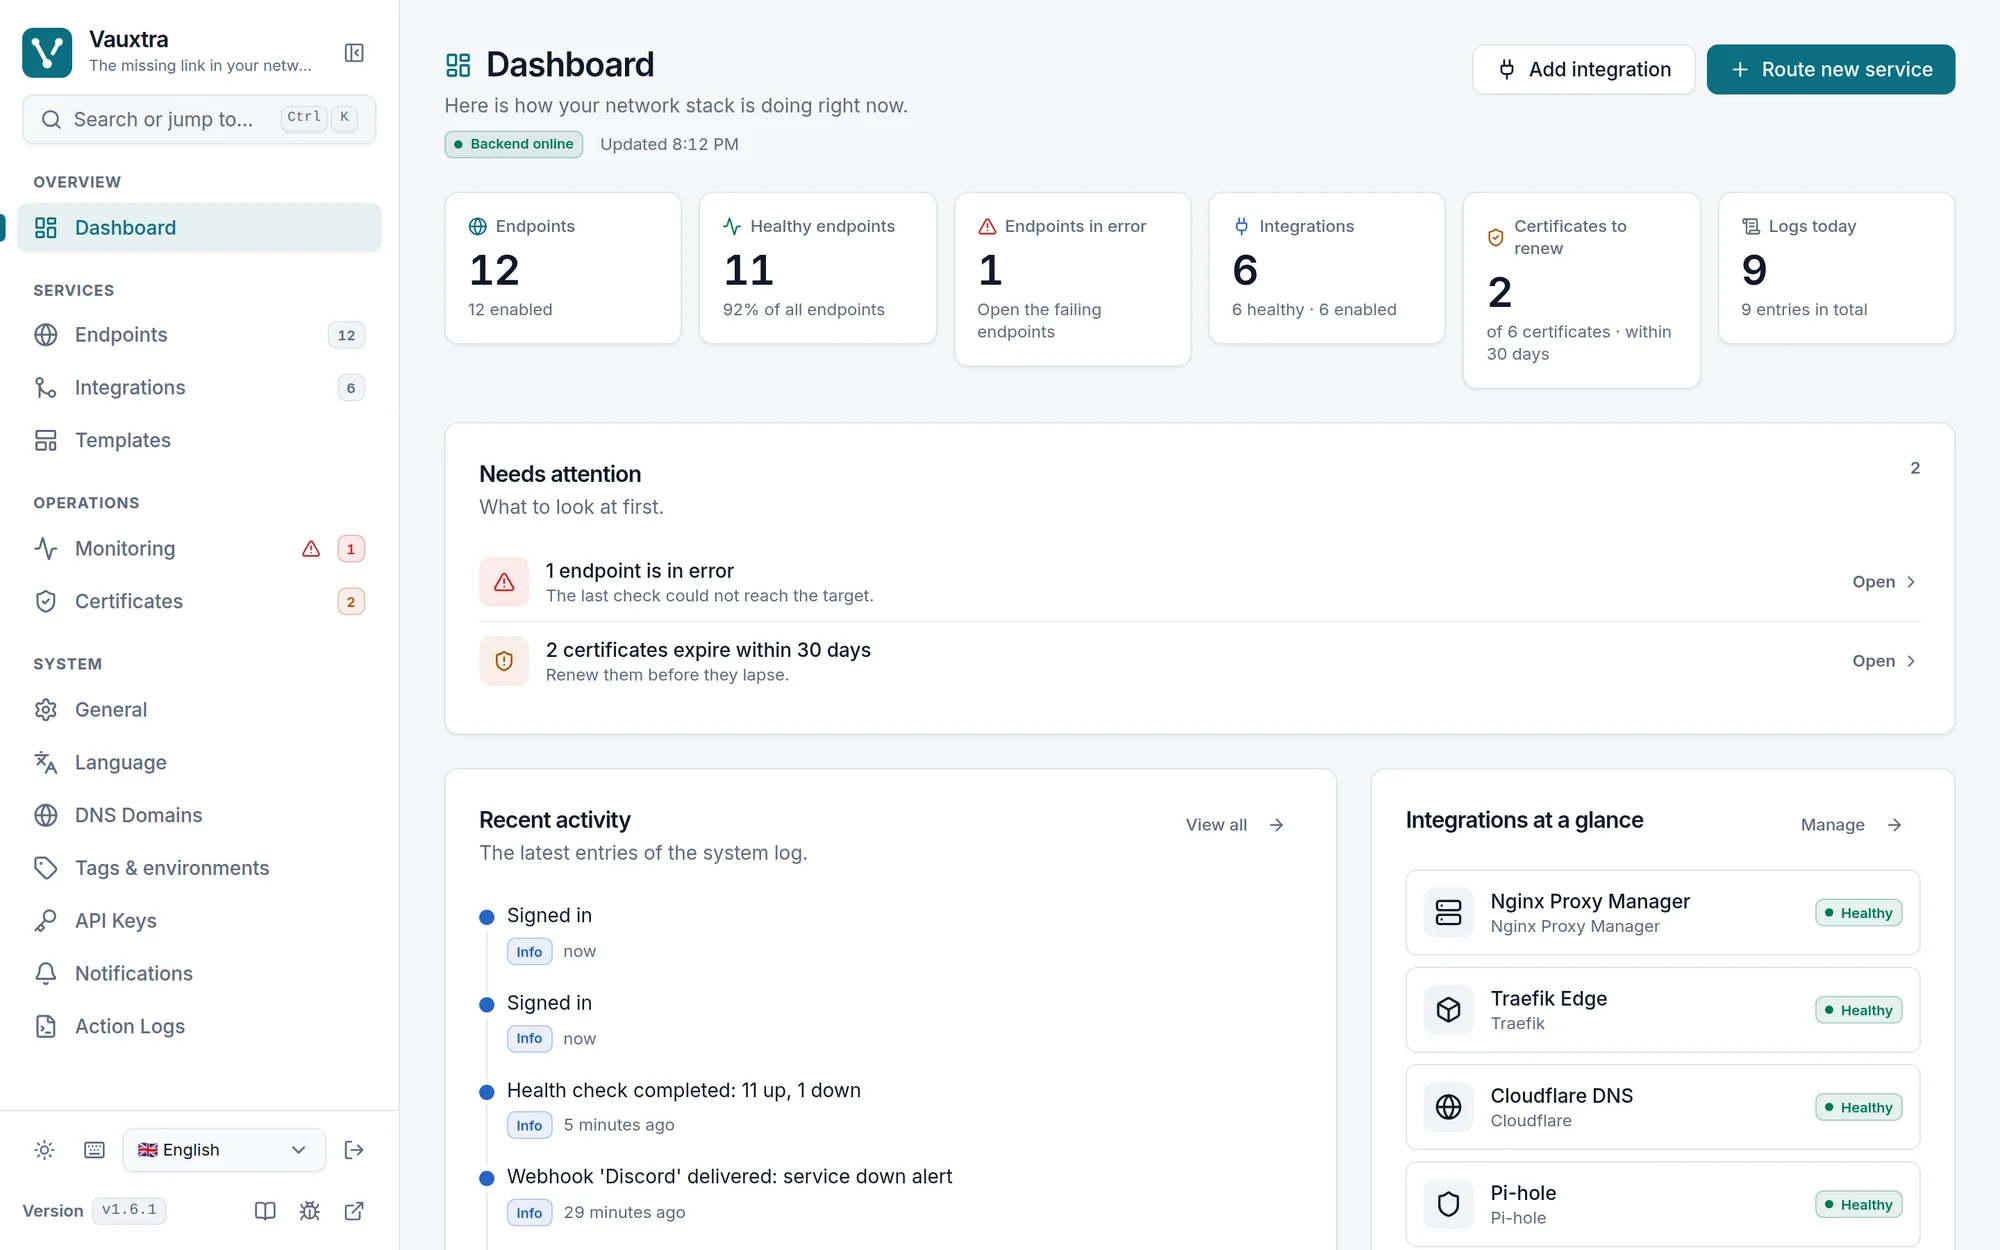
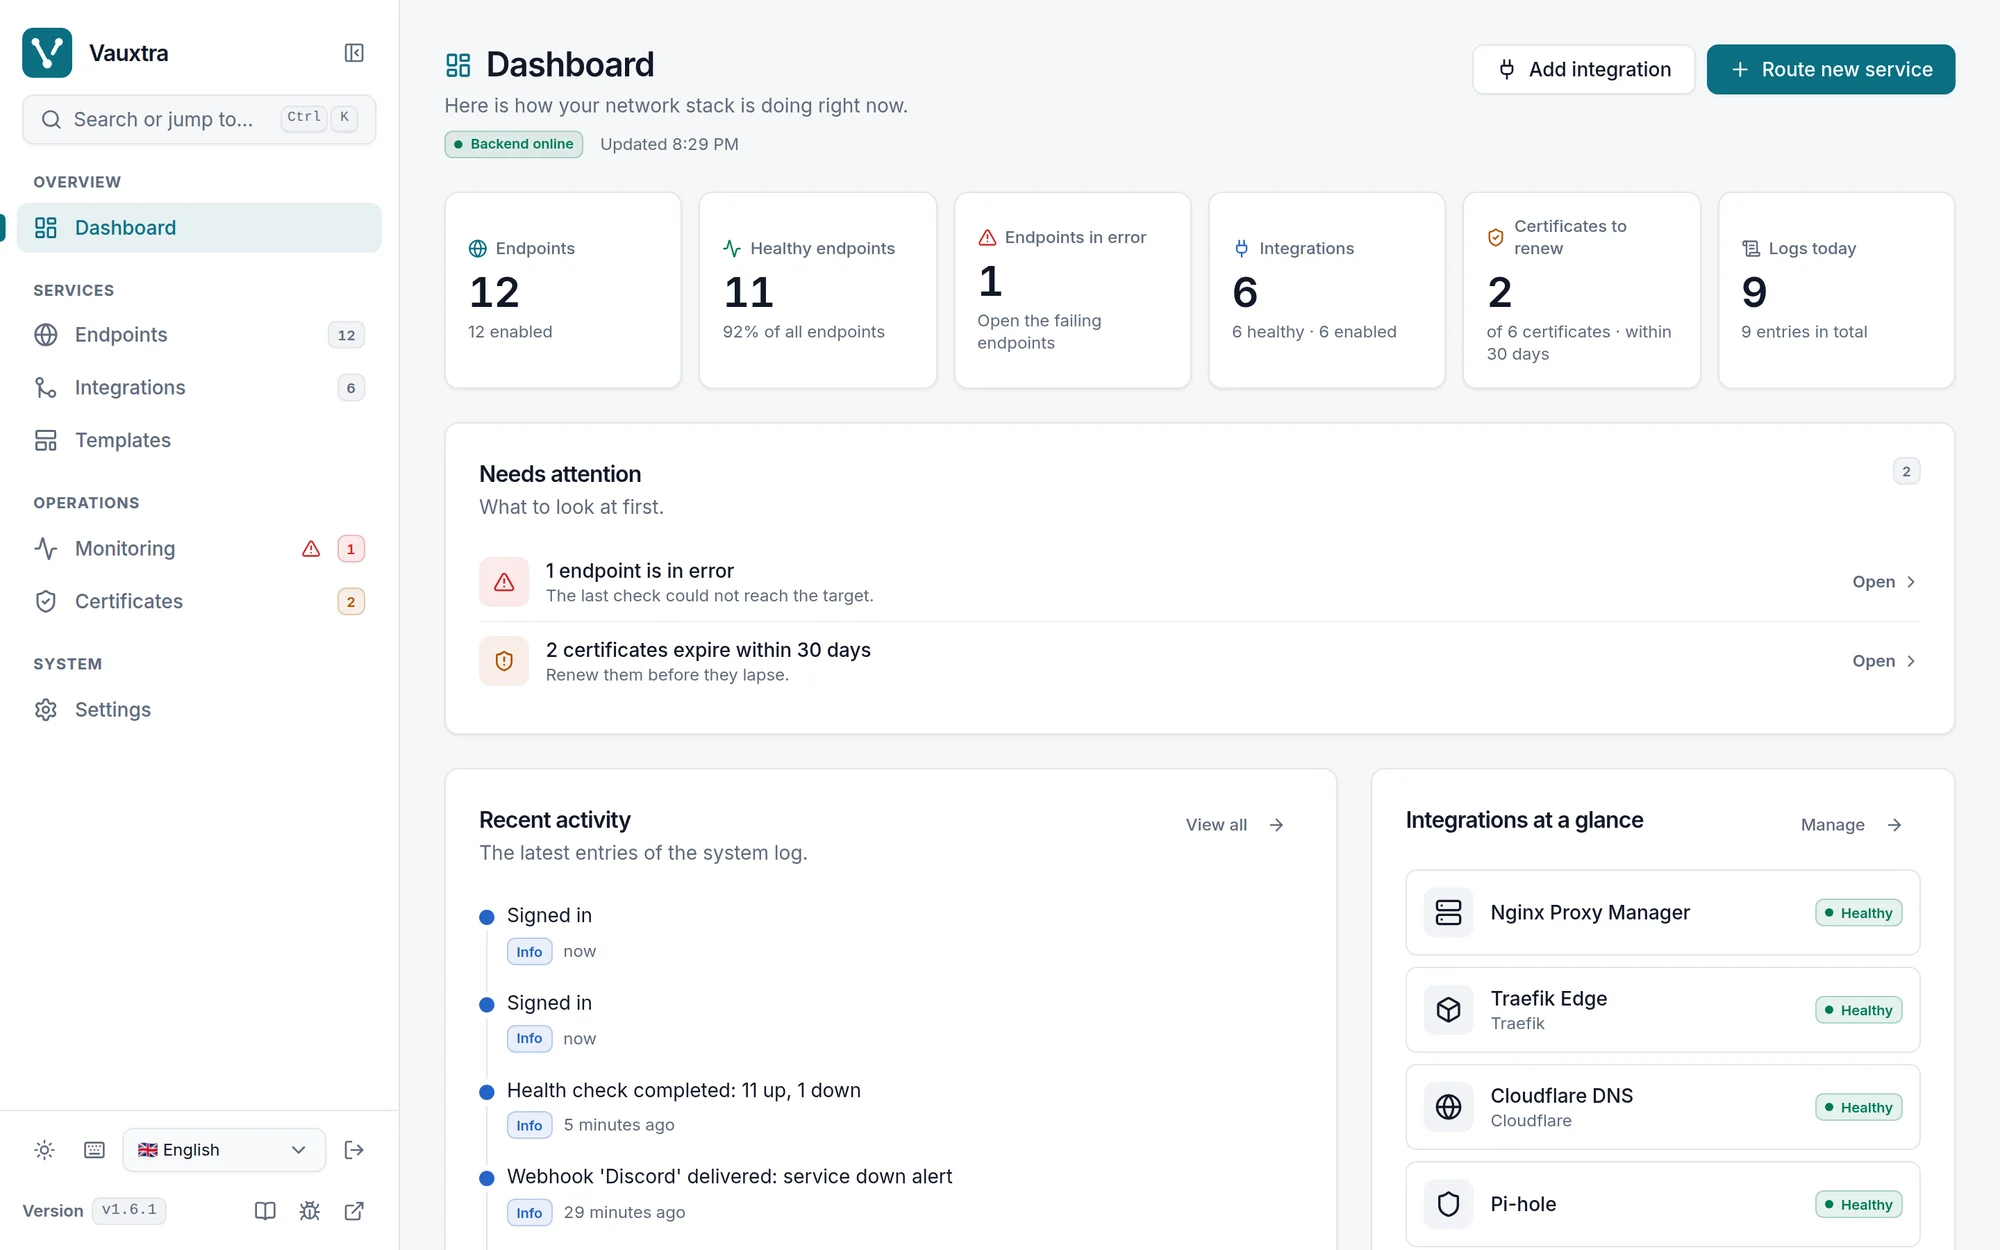
fix(ui) : menu Settings en double et passe de finition graphique
- Barre latérale : la section « System » répétait 7 des 9 onglets que la
  page Settings affiche déjà dans son propre menu. Elle ne garde qu'une
  entrée « Settings » ; le bouton « Back » de la page, redondant avec la
  barre, disparaît aussi.
- Couleurs des tags et environnements : la base stocke des mots-clés CSS
  (blue, purple, yellow…), peints tels quels — bleu pur illisible sur le
  thème sombre, jaune sur le clair. Chaque nom passe par un jeton
  --vx-label-* réglé par thème (labelColor, avec tests) ; une valeur
  inconnue, un hex importé par exemple, reste inchangée.
- Endpoints sur mobile : le tableau ne tenait pas et défilait de côté ;
  sous md la vue cartes s'impose et le sélecteur de vue est masqué
  (nouveau hook useMediaQuery).
- Finitions : slogan tronqué retiré sous le logo de la barre latérale,
  tuiles KPI cliquables à hauteur égale, compteur « Needs attention » en
  badge, en-tête de la carte Tunnel connectors qui ne s'écrase plus dans
  sa colonne étroite, type d'intégration plus répété quand il est déjà le
  nom (et plus en majuscules).
- Captures du README refaites.

diff --git a/frontend/src/components/layout/Sidebar.tsx b/frontend/src/components/layout/Sidebar.tsx
@@ -4,16 +4,12 @@ import { useMutation, useQuery, useQueryClient } from '@tanstack/react-query';
 import toast from 'react-hot-toast';
 import {
   Activity,
-  Bell,
   BookOpen,
   Bug,
   ExternalLink,
-  FileTerminal,
   GitMerge,
   Globe,
-  Key,
   Keyboard,
-  Languages,
   LayoutDashboard,
   LayoutTemplate,
   LogOut,
@@ -25,7 +21,6 @@ import {
   Settings,
   ShieldCheck,
   Sun,
-  Tag,
   TriangleAlert,
   X,
 } from 'lucide-react';
@@ -166,13 +161,7 @@ export function Sidebar({
     [certExpiryKnown, certExpiry?.certificates, certExpiry?.warn_threshold_days, expiringSoonCount],
   );
 
-  const settingsTab = new URLSearchParams(location.search).get('tab') || 'general';
-
   const isItemActive = (item: NavItem): boolean => {
-    if (item.href.startsWith('/settings?tab=')) {
-      const tab = item.href.split('tab=')[1] || 'general';
-      return location.pathname === '/settings' && settingsTab === tab;
-    }
     if (item.href === '/') return location.pathname === '/';
     return location.pathname === item.href || location.pathname.startsWith(`${item.href}/`);
   };
@@ -214,13 +203,7 @@ export function Sidebar({
     {
       title: t('nav.group.system'),
       items: [
-        { icon: <Settings />, label: t('settings.tab.general'), href: '/settings?tab=general' },
-        { icon: <Languages />, label: t('settings.language.title'), href: '/settings?tab=language' },
-        { icon: <Globe />, label: t('settings.tab.dns'), href: '/settings?tab=dns' },
-        { icon: <Tag />, label: t('settings.tab.taxonomy'), href: '/settings?tab=taxonomy' },
-        { icon: <Key />, label: t('settings.tab.apikeys'), href: '/settings?tab=apikeys' },
-        { icon: <Bell />, label: t('settings.tab.webhooks'), href: '/settings?tab=webhooks' },
-        { icon: <FileTerminal />, label: t('settings.tab.logs'), href: '/settings?tab=logs' },
+        { icon: <Settings />, label: t('nav.settings'), href: '/settings' },
       ],
     },
   ];
@@ -356,10 +339,7 @@ export function Sidebar({
       <div className="flex items-center justify-between gap-2 px-4 pb-3 pt-5">
         <div className="flex min-w-0 items-center gap-3">
           <BrandMark size="md" />
-          <div className="min-w-0">
-            <p className="text-base font-semibold leading-none tracking-tight text-foreground">Vauxtra</p>
-            <p className="mt-1 truncate text-[11px] leading-snug text-muted-foreground">{t('layout.tagline')}</p>
-          </div>
+          <p className="text-base font-semibold leading-none tracking-tight text-foreground">Vauxtra</p>
         </div>
         {isMobile
           ? onClose && <IconButton label={t('layout.menu.close')} icon={<X />} onClick={onClose} className="h-8 w-8 text-muted-foreground" />

diff --git a/frontend/src/components/features/monitoring/TunnelsCard.tsx b/frontend/src/components/features/monitoring/TunnelsCard.tsx
@@ -70,28 +70,29 @@ export function TunnelsCard({ data, loading, isError, refreshing, onRefresh }: T
 
   return (
     <Card>
-      <CardHeader className="flex flex-row items-start justify-between gap-3">
-        <div className="min-w-0">
-          <CardTitle className="flex items-center gap-2">
-            <Waypoints className="h-4 w-4 text-muted-foreground" aria-hidden />
-            {t('monitoring.tunnels.title')}
+      <CardHeader>
+        <div className="flex items-center justify-between gap-2">
+          <CardTitle className="flex min-w-0 items-center gap-2">
+            <Waypoints className="h-4 w-4 shrink-0 text-muted-foreground" aria-hidden />
+            <span className="truncate">{t('monitoring.tunnels.title')}</span>
           </CardTitle>
-          <p className="mt-1 text-xs text-muted-foreground">{t('monitoring.tunnels.description')}</p>
-        </div>
-        <div className="flex shrink-0 items-center gap-2">
-          {items.length > 0 && (
-            <Badge tone={down.length > 0 ? 'danger' : 'success'} size="sm" dot>
-              {t('monitoring.tunnels.healthy_of', { count: items.length - down.length, total: formatNumber(items.length) })}
-            </Badge>
-          )}
           <IconButton
             label={t('monitoring.tunnels.refresh')}
             icon={<RefreshCw className={cn(refreshing && 'animate-spin')} />}
             variant="ghost"
             size="icon"
             onClick={onRefresh}
+            className="-my-1.5 shrink-0"
           />
         </div>
+        <p className="text-xs text-muted-foreground">{t('monitoring.tunnels.description')}</p>
+        {items.length > 0 && (
+          <div>
+            <Badge tone={down.length > 0 ? 'danger' : 'success'} size="sm" dot>
+              {t('monitoring.tunnels.healthy_of', { count: items.length - down.length, total: formatNumber(items.length) })}
+            </Badge>
+          </div>
+        )}
       </CardHeader>
 
       <CardContent>

diff --git a/frontend/src/components/features/settings/TaxonomyTab.tsx b/frontend/src/components/features/settings/TaxonomyTab.tsx
@@ -7,6 +7,7 @@ import { useT } from '@/i18n';
 import { useFormat } from '@/hooks/useFormat';
 import { cn } from '@/lib/cn';
 import { translateApiError } from '@/lib/errors';
+import { LABEL_COLORS, labelColor } from '@/lib/labels';
 import {
   Badge,
   Button,
@@ -27,7 +28,7 @@ import { SettingsSection } from './SettingsSection';
 import { TaxonomyDeleteBody } from './TaxonomyDeleteBody';
 
 /** CSS colour names the backend stores as-is; the label of each one is translated. */
-const TAG_COLORS = ['blue', 'teal', 'green', 'red', 'orange', 'purple', 'cyan', 'yellow', 'pink', 'lime', 'indigo'] as const;
+const TAG_COLORS = LABEL_COLORS;
 const SEARCH_THRESHOLD = 6;
 
 type Kind = 'tags' | 'env';
@@ -67,10 +68,11 @@ export function TaxonomyTab() {
   );
 }
 
-function swatchStyle(color: string) {
+function swatchStyle(stored: string) {
+  const color = labelColor(stored);
   return {
-    backgroundColor: `color-mix(in srgb, ${color} 15%, transparent)`,
-    borderColor: `color-mix(in srgb, ${color} 40%, transparent)`,
+    backgroundColor: `color-mix(in srgb, ${color} 12%, transparent)`,
+    borderColor: `color-mix(in srgb, ${color} 35%, transparent)`,
     color,
   };
 }
@@ -423,7 +425,7 @@ function TaxonomyEditor({ kind }: { kind: Kind }) {
                 className="inline-flex items-center gap-1.5 rounded-full border py-1 pl-2.5 pr-1 text-xs font-medium"
                 style={swatchStyle(item.color)}
               >
-                <span aria-hidden="true" className="h-2 w-2 rounded-full" style={{ backgroundColor: item.color }} />
+                <span aria-hidden="true" className="h-2 w-2 rounded-full" style={{ backgroundColor: labelColor(item.color) }} />
                 <span className="max-w-48 truncate">{item.name}</span>
                 {held.services.length > 0 && (
                   <span className="rounded-full bg-foreground/10 px-1.5 leading-4 tabular-nums">

diff --git a/frontend/src/pages/Services.tsx b/frontend/src/pages/Services.tsx
@@ -22,6 +22,7 @@ import { toast } from 'react-hot-toast';
 import { api } from '@/api/client';
 import { useT } from '@/i18n';
 import { useFormat } from '@/hooks/useFormat';
+import { useMediaQuery } from '@/hooks/useMediaQuery';
 import { cn } from '@/lib/cn';
 import { translateApiError } from '@/lib/errors';
 import {
@@ -139,7 +140,11 @@ export function Services() {
 
   // --- persisted UI state -------------------------------------------------
   const [search, setSearch] = useLocalStorage('vauxtra.services.search', '');
-  const [viewMode, setViewMode] = useLocalStorage<ViewMode>('vauxtra.services.viewMode', 'list');
+  const [savedViewMode, setViewMode] = useLocalStorage<ViewMode>('vauxtra.services.viewMode', 'list');
+  // The table needs a desktop's width; below `md` it only scrolls sideways, so phones get the
+  // cards whatever was saved, and the toggle that could not change that is hidden.
+  const isNarrow = useMediaQuery('(max-width: 767px)');
+  const viewMode: ViewMode = isNarrow ? 'grid' : savedViewMode;
   const [modeFilter, setModeFilter] = useLocalStorage<ModeFilter>('vauxtra.services.mode', 'all');
 
   // --- URL-driven filters (shared links from the dashboard) ---------------
@@ -965,7 +970,7 @@ export function Services() {
                 {t('services.clear_filters')}
               </Button>
             )}
-            <div className="ml-auto inline-flex items-center gap-1 rounded-xl bg-muted p-1" role="group" aria-label={t('services.view.label')}>
+            <div className="ml-auto hidden items-center gap-1 rounded-xl bg-muted p-1 md:inline-flex" role="group" aria-label={t('services.view.label')}>
               <IconButton
                 label={t('services.view.list')}
                 icon={<LayoutList />}

diff --git a/frontend/src/lib/labels.ts b/frontend/src/lib/labels.ts
@@ -23,9 +23,23 @@ export const labelTone = (half: LabelHalf): Tone => (half === 'tag' ? 'primary' 
 export const labelDotClass = (half: LabelHalf): string =>
   `inline-block h-2 w-2 rounded-full ${half === 'tag' ? 'bg-primary' : 'bg-info'}`;
 
+/** The colour names the Settings picker offers, each backed by a `--vx-label-*` token. */
+export const LABEL_COLORS = ['blue', 'teal', 'green', 'red', 'orange', 'purple', 'cyan', 'yellow', 'pink', 'lime', 'indigo'] as const;
+
+const NAMED = new Set<string>(LABEL_COLORS);
+
+/**
+ * The CSS value for a stored label colour. The picker stores CSS keywords, and painted as-is
+ * those are the raw web colours -- pure `blue` on the dark theme, `yellow` on the light one --
+ * so a known name goes through its theme-tuned token; anything else (a hex from an import or
+ * an older release) passes through untouched.
+ */
+export const labelColor = (color: string): string =>
+  NAMED.has(color.toLowerCase()) ? `rgb(var(--vx-label-${color.toLowerCase()}))` : color;
+
 /**
  * The label's own colour, or nothing at all. A label may have none, and an inline style of
  * `undefined` leaves the dot on its tone class rather than painting it transparent.
  */
 export const labelDotStyle = (color: string | null | undefined) =>
-  color ? { backgroundColor: color } : undefined;
+  color ? { backgroundColor: labelColor(color) } : undefined;

diff --git a/frontend/src/index.css b/frontend/src/index.css
@@ -258,6 +258,20 @@
     --vx-info-fg: 255 255 255;
     --vx-ring: 11 110 130;
 
+    /* Tag and environment colours: the names stored in the database, tuned per theme so
+     * every one of them stays readable (a raw `blue` or `yellow` did not). */
+    --vx-label-blue: 29 78 216;
+    --vx-label-teal: 15 118 110;
+    --vx-label-green: 21 128 61;
+    --vx-label-red: 185 28 28;
+    --vx-label-orange: 194 65 12;
+    --vx-label-purple: 126 34 206;
+    --vx-label-cyan: 14 116 144;
+    --vx-label-yellow: 161 98 7;
+    --vx-label-pink: 190 24 93;
+    --vx-label-lime: 77 124 15;
+    --vx-label-indigo: 67 56 202;
+
     --vx-shadow-card:
       0 1px 2px 0 rgb(15 23 42 / 0.04), 0 1px 3px 0 rgb(15 23 42 / 0.05);
     --vx-shadow-elevated:
@@ -291,6 +305,18 @@
     --vx-info: 110 160 245;
     --vx-info-fg: 10 25 55;
     --vx-ring: 70 160 178;
+
+    --vx-label-blue: 96 165 250;
+    --vx-label-teal: 45 212 191;
+    --vx-label-green: 74 222 128;
+    --vx-label-red: 248 113 113;
+    --vx-label-orange: 251 146 60;
+    --vx-label-purple: 192 132 252;
+    --vx-label-cyan: 34 211 238;
+    --vx-label-yellow: 250 204 21;
+    --vx-label-pink: 244 114 182;
+    --vx-label-lime: 163 230 53;
+    --vx-label-indigo: 129 140 248;
 
     --vx-shadow-card:
       0 1px 2px 0 rgb(0 0 0 / 0.35), 0 1px 3px 0 rgb(0 0 0 / 0.3);

diff --git a/frontend/src/components/features/dashboard/NeedsAttention.tsx b/frontend/src/components/features/dashboard/NeedsAttention.tsx
@@ -2,7 +2,7 @@ import type { ReactNode } from 'react';
 import { Link } from 'react-router-dom';
 import { ChevronRight, CloudOff, Sparkles } from 'lucide-react';
 import { useT } from '@/i18n';
-import { Card, InlineAlert, SectionHeading, SkeletonRow, cn, toneClasses, type Tone } from '@/components/ui';
+import { Badge, Card, InlineAlert, SectionHeading, SkeletonRow, cn, toneClasses, type Tone } from '@/components/ui';
 
 export interface AttentionItem {
   id: string;
@@ -65,7 +65,7 @@ export function NeedsAttention({ items, loading, incomplete = false }: NeedsAtte
       {partial}
       <Card className="p-5 sm:p-6 animate-in fade-in">
         <SectionHeading title={t('dashboard.attention.title')} description={t('dashboard.attention.description')}>
-          <span className="text-xs font-semibold tabular-nums text-muted-foreground">{items.length}</span>
+          <Badge tone="neutral" size="sm" className="tabular-nums">{items.length}</Badge>
         </SectionHeading>
         <ul className="mt-4 divide-y divide-border/60">
           {items.map((item) => {

diff --git a/frontend/src/pages/Settings.tsx b/frontend/src/pages/Settings.tsx
@@ -1,9 +1,9 @@
 import type { ComponentType } from 'react';
 import { Link, useSearchParams } from 'react-router-dom';
-import { ArrowLeft, Settings as SettingsIcon } from 'lucide-react';
+import { Settings as SettingsIcon } from 'lucide-react';
 import { useT } from '@/i18n';
 import { cn } from '@/lib/cn';
-import { ErrorBoundary, PageHeader, Tab, TabList, TabPanel, Tabs, buttonVariants } from '@/components/ui';
+import { ErrorBoundary, PageHeader, Tab, TabList, TabPanel, Tabs } from '@/components/ui';
 import {
   ApiKeysTab,
   DataTab,
@@ -62,12 +62,6 @@ export function Settings() {
         eyebrow={t('settings.eyebrow')}
         title={t('settings.title')}
         description={t('settings.description')}
-        actions={
-          <Link to="/" className={buttonVariants({ variant: 'outline', size: 'sm' })}>
-            <ArrowLeft aria-hidden="true" className="h-4 w-4" />
-            {t('common.back')}
-          </Link>
-        }
       />
 
       <div className="lg:grid lg:grid-cols-[15rem_minmax(0,1fr)] lg:gap-8">

diff --git a/frontend/src/lib/labels.test.ts b/frontend/src/lib/labels.test.ts
@@ -1,0 +1,29 @@
+import { describe, expect, it } from 'vitest';
+import { LABEL_COLORS, labelColor, labelDotStyle } from './labels';
+
+describe('labelColor', () => {
+  it('sends every name the picker offers through its theme token', () => {
+    for (const name of LABEL_COLORS) {
+      expect(labelColor(name)).toBe(`rgb(var(--vx-label-${name}))`);
+    }
+  });
+
+  it('matches the stored name whatever its case', () => {
+    expect(labelColor('Blue')).toBe('rgb(var(--vx-label-blue))');
+  });
+
+  it('leaves a colour it does not name untouched', () => {
+    expect(labelColor('#ff8800')).toBe('#ff8800');
+  });
+});
+
+describe('labelDotStyle', () => {
+  it('paints the tuned colour, not the raw keyword', () => {
+    expect(labelDotStyle('purple')).toEqual({ backgroundColor: 'rgb(var(--vx-label-purple))' });
+  });
+
+  it('draws nothing for a label without a colour', () => {
+    expect(labelDotStyle('')).toBeUndefined();
+    expect(labelDotStyle(null)).toBeUndefined();
+  });
+});

diff --git a/frontend/src/components/features/providers/ProviderCard.tsx b/frontend/src/components/features/providers/ProviderCard.tsx
@@ -155,8 +155,12 @@ export const ProviderCard = memo(function ProviderCard({
           <div className="min-w-0 flex-1">
             <h3 className="truncate text-base font-semibold leading-tight text-foreground">{provider.name}</h3>
             <p className="mt-1 flex flex-wrap items-center gap-x-2 gap-y-0.5 text-xs text-muted-foreground">
-              <span className="font-medium uppercase tracking-wider">{typeLabel}</span>
-              <span aria-hidden="true">·</span>
+              {typeLabel.toLowerCase() !== provider.name.trim().toLowerCase() && (
+                <>
+                  <span className="font-medium">{typeLabel}</span>
+                  <span aria-hidden="true">·</span>
+                </>
+              )}
               <span className="truncate font-mono" title={provider.url || undefined}>
                 {provider.url ? hostOf(provider.url) : t('providers.card.default_url')}
               </span>

diff --git a/frontend/src/hooks/useMediaQuery.ts b/frontend/src/hooks/useMediaQuery.ts
@@ -1,0 +1,21 @@
+import { useCallback, useSyncExternalStore } from 'react';
+
+/**
+ * Whether a CSS media query currently matches, kept live as the viewport changes.
+ * Answers `false` wherever `matchMedia` is missing (jsdom, very old browsers), which is
+ * the desktop layout -- the same fallback `theme.tsx` uses.
+ */
+export function useMediaQuery(query: string): boolean {
+  const subscribe = useCallback(
+    (onChange: () => void) => {
+      if (typeof window === 'undefined' || typeof window.matchMedia !== 'function') return () => {};
+      const media = window.matchMedia(query);
+      media.addEventListener('change', onChange);
+      return () => media.removeEventListener('change', onChange);
+    },
+    [query],
+  );
+  const read = () =>
+    typeof window !== 'undefined' && typeof window.matchMedia === 'function' && window.matchMedia(query).matches;
+  return useSyncExternalStore(subscribe, read, () => false);
+}

diff --git a/frontend/src/components/features/expose/ServiceForm.tsx b/frontend/src/components/features/expose/ServiceForm.tsx
@@ -4,6 +4,7 @@ import { ArrowRightLeft, Globe, RefreshCw, Server, Waypoints } from 'lucide-reac
 import toast from 'react-hot-toast';
 import { useT } from '@/i18n';
 import { cn } from '@/lib/cn';
+import { labelColor } from '@/lib/labels';
 import {
   domainProblem,
   domainProblemKey,
@@ -209,7 +210,7 @@ function TaxonomyChips({
               onClick={() => onToggle(item.id)}
               icon={
                 item.color ? (
-                  <span className="h-2.5 w-2.5 rounded-full" style={{ backgroundColor: item.color }} />
+                  <span className="h-2.5 w-2.5 rounded-full" style={{ backgroundColor: labelColor(item.color) }} />
                 ) : undefined
               }
             >
